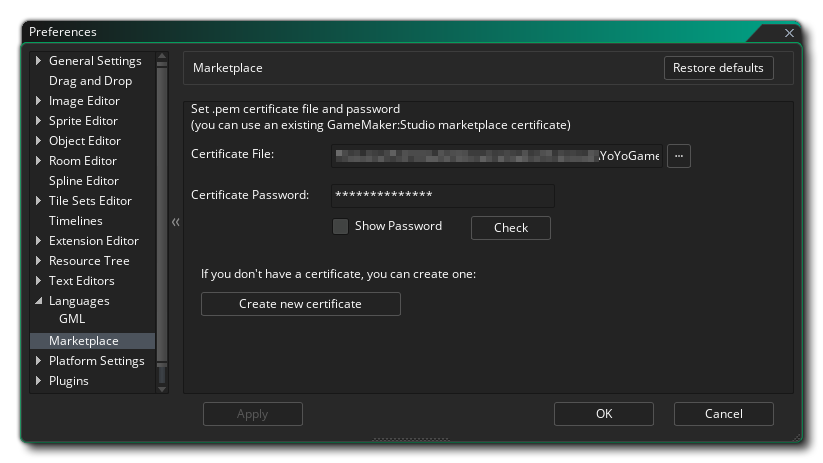
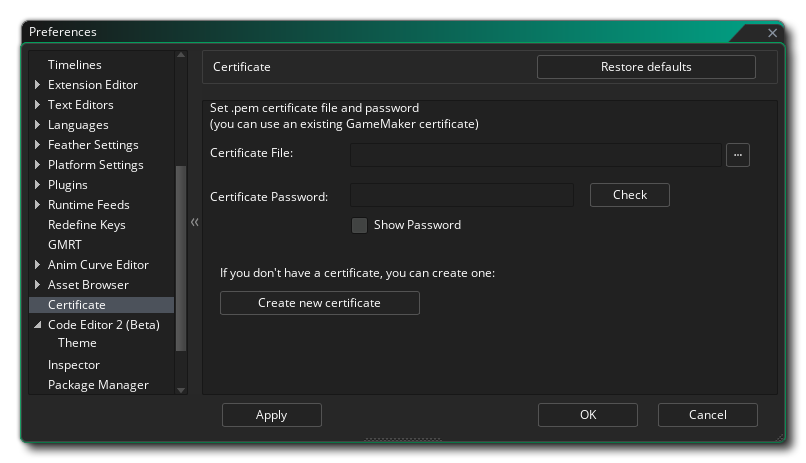
docs(feature): Update Marketplace prefs to Certificate prefs

diff --git a/Manual/contents/Setting_Up_And_Version_Information/IDE_Preferences/Marketplace_Preferences.htm b/Manual/contents/Setting_Up_And_Version_Information/IDE_Preferences/Marketplace_Preferences.htm
@@ -3,38 +3,25 @@
 <html xmlns="http://www.w3.org/1999/xhtml">
 <head>
   <meta http-equiv="Content-Type" content="text/html; charset=utf-8" />
-  <title>Marketplace Preferences</title>
+  <title>Certificate Preferences</title>
   <meta name="generator" content="Adobe RoboHelp 2022" />
   <link rel="stylesheet" href="../../assets/css/default.css" type="text/css" />
   <script src="../../assets/scripts/main_script.js" type="module"></script>
-  <meta name="rh-authors" content="Mark Alexander" />
-  <meta name="topic-comment" content="The Marketplace Preferences" />
+  <meta name="rh-authors" content="" />
+  <meta name="topic-comment" content="The Certificate Preferences" />
   <meta name="rh-index-keywords" content="Prefs - Marketplace" />
   <meta name="search-keywords" content="Marketplace Prefs,Marketplace Preferences,Marketplace Certificate,Certificate,Create Certificate" />
 </head>
 <body>
   <!--<div class="body-scroll" style="top: 150px;">-->
-  <h1>Marketplace Preferences</h1>
+  <h1><span data-field="title" data-format="default">Certificate Preferences</span></h1>
   <p><img alt="The Marketplace Preferences" class="center" src="../../assets/Images/Setup_And_Version/Preferences/Marketplace_Prefs.png" /></p>
-  <p>The <strong>Marketplace Preferences</strong> are used to set up the <strong>Marketplace Certificate</strong> for uploading or buying assets. The certificate form consists of the following sections for when you have already created a certificate (see further down this page for details on how to create a certificate):</p>
+  <p>The <strong>Certificate Preferences</strong> are used to set up the <strong>Marketplace Certificate</strong> for uploading or buying assets. The certificate form consists of the following sections for when you have already created a certificate (see further down this page for details on how to create a certificate):</p>
   <ul class="colour">
     <li><strong>Certificate File</strong>: This section is where you specify the <span class="inline">*.pem</span> file that the Marketplace uses for certification of assets. If you have a previously created certificate then you can click the file browser button here and add it in to the forum, but if you do not have a certificate and wish to make one, then you should omit any information here and instead click to the <strong>Create New Certificate</strong> button (explained below).</li>
     <li><strong>Certificate Password</strong>: Here you must input the certificate password for the file selected above. The password is created when you first create the <span class="inline">*.pem</span> file (see <strong>Create A New Certificate</strong>, below) and will be irreversibly linked to the certificate file created.</li>
     <li><strong>Check</strong>: Once you have filled in the above fields you should click this button to ensure that the password and file selection are correct and work together.</li>
   </ul>
-  <p><a class="dropspot" data-rhwidget="DropSpot" data-target="drop-down" href="#">Confirm Dialogs</a></p>
-  <div class="droptext" data-targetname="drop-down">
-    <p class="dropspot">
-      <img data-cke-saved-src="../../assets/Images/Setup_And_Version/Preferences/Marketplace_Confirm_Prefs.png" src="../../assets/Images/Setup_And_Version/Preferences/Marketplace_Confirm_Prefs.png" class="center" alt="The Marketplace Confirm Dialog Preferences" width="716" height="463" />Here you can select the behaviour of the confirmation dialogues when working with a resource from the Asset Browser. The available options are:
-    </p>
-    <ul class="dropspotlist">
-      <li class="dropspot">
-        <strong>Automatic response to offline content delete</strong>: When you delete a marketplace asset from your library without a web connection, you normally get a warning asking if you are sure you want to proceed. By setting this option to &quot;OK&quot;
-        the message will be suppressed as if you had clicked the &quot;OK&quot; button to proceed. The default value is &quot;Show Message&quot;.
-      </li>
-    </ul>
-    <p class="dropspot"></p>
-  </div>
   <p> </p>
   <p> </p>
   <h1>Create A New Certificate</h1>
@@ -44,7 +31,7 @@
     <li><strong>Certificate Password</strong>: Here you must give a unique password for the certificate file to be created. Take care with what you choose as you cannot change it later and if you do not have the correct password for the certificate file in the sections above you will not be able to update any existing Marketplace assets (nor upload new ones).</li>
   </ul>
   <p><img alt="The Marketplace New Certificate Window" class="center" src="../../assets/Images/Setup_And_Version/Preferences/Marketplace_NewCert_Prefs.png" />With those details given you can then click on the <strong>Create Certificate</strong> button to generate the <span class="inline">*.pem</span> file. You will be prompted to give a save location and a name for the file, and you should take note of this for future reference. Once you have done that, the new file and password will be automatically added into the form fields listed above and you can click on the <strong>Check </strong>button to test that the certificate has been generated correctly.</p>
-  <p class="note"><strong>NOTE</strong>: We recommend that you take a screenshot of the actual settings as well as make a copy of the <span class="inline">*.pem </span>file. Both should be saved together to a safe location for future reference, or in case you need to re-install <span data-keyref="GameMaker Name">GameMaker</span> at some point. You cannot update assets that have already been uploaded unless the updated package is signed using the same certificate that the original was created with.</p>
+  <p class="note"><strong>NOTE</strong>: We recommend that you take a screenshot of the actual settings as well as make a copy of the <span class="inline">*.pem</span> file. Both should be saved together to a safe location for future reference, or in case you need to re-install <span data-keyref="GameMaker Name">GameMaker</span> at some point. You cannot update assets that have already been uploaded unless the updated package is signed using the same certificate that the original was created with.</p>
   <p> </p>
   <p> </p>
   <div class="footer">
